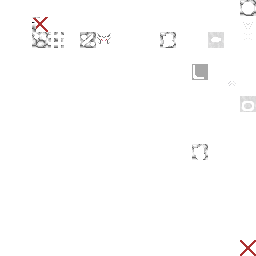
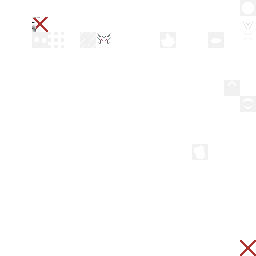
Machinery Update

diff --git a/readme.md b/readme.md
@@ -3,14 +3,23 @@ A 16x16 Dwarf Fortress tileset.
 
 ## Instructions
 Place the .png files in the `<dwarf fortress>/data/art` folder. Make sure to update your init file!
-If you're using the TWBT files, make sure you also copy overrides.txt into `<dwarf fortress>/data/init/`.
+If you're using the TWBT files, make sure you also copy overrides.txt into `<dwarf fortress>/data/init/`.  
 
 ## Vanilla Files
 - neoren-16x16-font.png - ASCII only
 - neoren-16x16-vgfx.png - ASCII w/ Basic graphics
 
 ### TWBT Files
+#### Required
 - neoren-16x16.png - TWBT graphics (Use with any font you like, or the one included)
-- neoren-16x16-bg.png - optional
-- neoren-16x16-top.png - optional
-- overrides.txt - needed when using twbt graphics
+- neoren-16x16-extras.png - additional TWBT graphics.
+- overrides.txt - place in `/data/init/`
+
+#### Optional
+- neoren-16x16-bg.png - for seeing the floor under items
+- neoren-16x16-top.png - for getting some extra colors on some tiles
+- neoren-16x16-extras-bg.png
+
+## Known Issues
+- Night Creatures (`Ñ`) all share the same tile, so they all look like ghosts.
+ - This cannot be fixed without editing raws, which is beyond the scope of this project.

diff --git a/changelog.md b/changelog.md
@@ -3,7 +3,35 @@ All notable changes to this project will be documented in this file.
 
 The format is based on [Keep a Changelog](https://keepachangelog.com/en/1.0.0/).
 
-## 2021-03-1
+## [The Machinery Update] - 2021-03-12
+### Added
+- Two new files: `neoren-16x16-extras.png` and `neoren-16x16-extras-bg.png`
+ - these files contain some extra files for TWBT
+ - only the first file is required (if you don't want to see the floor through itmes)
+- Waterwheel
+- Gear Assembly
+- Horizontal Axle
+- Farm Plot (sown)
+- Windmill
+- Millstone
+- Alter
+- Cabinet
+- Webs
+
+### Changed
+- Levers are now colored depending on power state
+ - this requires *-top.png file(s) to be present
+- Moved bridge tiles to extras sheet (graphics are unchanged)
+- Separated doors into 3 types, wood, stone, metal
+- Fixed floor hatch
+- Modified dirt/stone/ore/vein wall
+- Drasticly improved contrast between walls and floors (and levers)
+
+### Known Issues
+- Night Creatures (`Ñ`) all share the same tile, so they all look like ghosts.
+ - This cannot be fixed without editing raws, which is beyond the scope of this project.
+
+## 2021-03-01
 ### Added
 - Leaves/roots
 - More engraved walls
